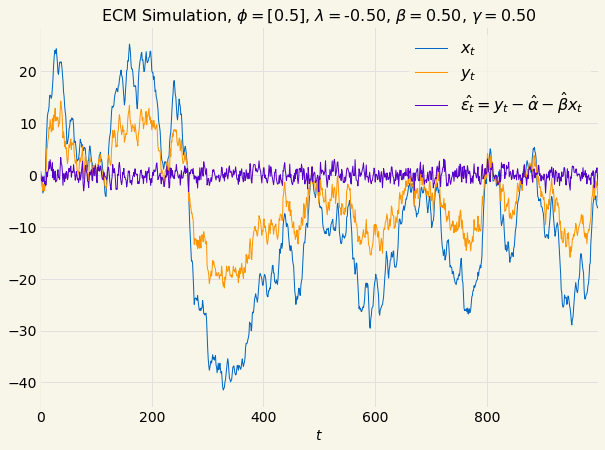
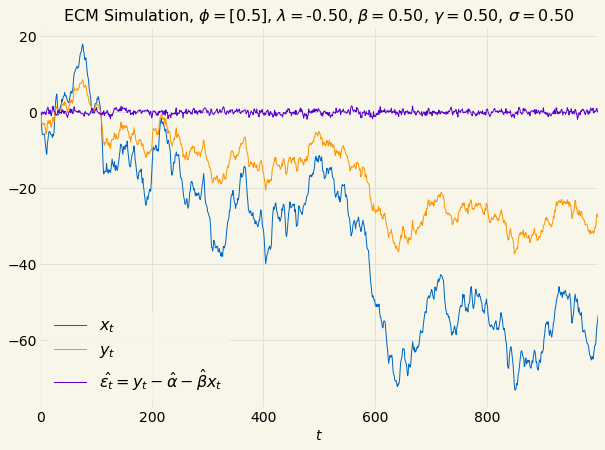
added statndard deviation to ecm noise term

diff --git a/hydrogen_notebooks/algorithmic_trading/mean_reversion/ecm_parameter_estimation.py b/hydrogen_notebooks/algorithmic_trading/mean_reversion/ecm_parameter_estimation.py
@@ -59,9 +59,9 @@ def corrletation_plot(xt, yt, params, err, β_r_squared, legend_anchor, title, p
 # %%
 
 arima_params = {"φ": numpy.array([0.5]), "δ": numpy.array([]), "d": 1}
-ecm_params = {"δ": 0.0, "γ": 0.5, "λ": -0.5, "α": 0.0, "β": 0.5}
+ecm_params = {"δ": 0.0, "γ": 0.5, "λ": -0.5, "α": 0.0, "β": 0.5, "σ": 1.0}
 n = 1000
-image_postfix = f"_φ_{format(arima_params['φ'][0], '1.1f')}_β_{format(ecm_params['β'], '1.1f')}_λ_{format(ecm_params['λ'], '1.1f')}_γ_{format(ecm_params['γ'], '1.1f')}"
+image_postfix = f"_φ_{format(arima_params['φ'][0], '1.1f')}_β_{format(ecm_params['β'], '1.1f')}_λ_{format(ecm_params['λ'], '1.1f')}_γ_{format(ecm_params['γ'], '1.1f')}_σ_{format(ecm_params['σ'], '1.1f')}"
 
 xt, yt = arima.ecm_sample_generate(arima_params, ecm_params, n)
 
@@ -71,7 +71,7 @@ params, rsquard, err = arima.ols_estimate(xt, yt)
 
 # %%
 
-title = f"ECM Simulation, " + r"$\phi=$" + f"{numpy.array2string(arima_params['φ'], precision=2, separator=',')}, " + r"$\lambda=$" + f"{format(ecm_params['λ'], '2.2f')}, " + r"$\beta=$" + f"{format(ecm_params['β'], '2.2f')}, " + r"$\gamma=$" + f"{format(ecm_params['γ'], '2.2f')}"
+title = f"ECM Simulation, " + r"$\phi=$" + f"{numpy.array2string(arima_params['φ'], precision=2, separator=',')}, " + r"$\lambda=$" + f"{format(ecm_params['λ'], '2.2f')}, " + r"$\beta=$" + f"{format(ecm_params['β'], '2.2f')}, " + r"$\gamma=$" + f"{format(ecm_params['γ'], '2.2f')}, " + r"$\sigma=$" + f"{format(ecm_params['σ'], '2.2f')}"
 plot_name = f"ecm_parameter_estimation_β{image_postfix}"
 corrletation_plot(xt, yt, params, err, rsquard, [0.85, 0.5], title, plot_name)
 
@@ -85,7 +85,7 @@ arima.adf_report(εt)
 
 # %%
 
-title = f"ECM Simulation, " + r"$\phi=$" + f"{numpy.array2string(arima_params['φ'], precision=2, separator=',')}, " + r"$\lambda=$" + f"{format(ecm_params['λ'], '2.2f')}, " + r"$\beta=$" + f"{format(ecm_params['β'], '2.2f')}, " + r"$\gamma=$" + f"{format(ecm_params['γ'], '2.2f')}"
+title = f"ECM Simulation, " + r"$\phi=$" + f"{numpy.array2string(arima_params['φ'], precision=2, separator=',')}, " + r"$\lambda=$" + f"{format(ecm_params['λ'], '2.2f')}, " + r"$\beta=$" + f"{format(ecm_params['β'], '2.2f')}, " + r"$\gamma=$" + f"{format(ecm_params['γ'], '2.2f')}, " + r"$\sigma=$" + f"{format(ecm_params['σ'], '2.2f')}"
 plot_name = f"ecm_parameter_estimation_simualtion{image_postfix}"
 labels = [r"$x_t$", r"$y_t$", r"$\hat{\varepsilon_t} = y_{t}-\hat{\alpha}-\hat{\beta}x_{t}$"]
 samples = numpy.array([xt, yt, εt])
@@ -98,10 +98,10 @@ arima.ecm_estimate_parameters(xt, yt, params[0], params[1])
 
 # %%
 
-arima_params = {"φ": numpy.array([0.9]), "δ": numpy.array([]), "d": 1}
-ecm_params = {"δ": 0.0, "γ": 0.5, "λ": -0.5, "α": 0.0, "β": 0.5}
+arima_params = {"φ": numpy.array([0.2]), "δ": numpy.array([]), "d": 1}
+ecm_params = {"δ": 0.0, "γ": 0.5, "λ": -0.5, "α": 0.0, "β": 0.5, "σ": 1.0}
 n = 1000
-image_postfix = f"_φ_{format(arima_params['φ'][0], '1.1f')}_β_{format(ecm_params['β'], '1.1f')}_λ_{format(ecm_params['λ'], '1.1f')}_γ_{format(ecm_params['γ'], '1.1f')}"
+image_postfix = f"_φ_{format(arima_params['φ'][0], '1.1f')}_β_{format(ecm_params['β'], '1.1f')}_λ_{format(ecm_params['λ'], '1.1f')}_γ_{format(ecm_params['γ'], '1.1f')}_σ_{format(ecm_params['σ'], '1.1f')}"
 
 xt, yt = arima.ecm_sample_generate(arima_params, ecm_params, n)
 
@@ -111,7 +111,7 @@ params, rsquard, err = arima.ols_estimate(xt, yt)
 
 # %%
 
-title = f"ECM Simulation, " + r"$\phi=$" + f"{numpy.array2string(arima_params['φ'], precision=2, separator=',')}, " + r"$\lambda=$" + f"{format(ecm_params['λ'], '2.2f')}, " + r"$\beta=$" + f"{format(ecm_params['β'], '2.2f')}, " + r"$\gamma=$" + f"{format(ecm_params['γ'], '2.2f')}"
+title = f"ECM Simulation, " + r"$\phi=$" + f"{numpy.array2string(arima_params['φ'], precision=2, separator=',')}, " + r"$\lambda=$" + f"{format(ecm_params['λ'], '2.2f')}, " + r"$\beta=$" + f"{format(ecm_params['β'], '2.2f')}, " + r"$\gamma=$" + f"{format(ecm_params['γ'], '2.2f')}, " + r"$\sigma=$" + f"{format(ecm_params['σ'], '2.2f')}"
 plot_name = f"ecm_parameter_estimation_β{image_postfix}"
 corrletation_plot(xt, yt, params, err, rsquard, [0.85, 0.5], title, plot_name)
 
@@ -125,7 +125,7 @@ arima.adf_report(εt)
 
 # %%
 
-title = f"ECM Simulation, " + r"$\phi=$" + f"{numpy.array2string(arima_params['φ'], precision=2, separator=',')}, " + r"$\lambda=$" + f"{format(ecm_params['λ'], '2.2f')}, " + r"$\beta=$" + f"{format(ecm_params['β'], '2.2f')}, " + r"$\gamma=$" + f"{format(ecm_params['γ'], '2.2f')}"
+title = f"ECM Simulation, " + r"$\phi=$" + f"{numpy.array2string(arima_params['φ'], precision=2, separator=',')}, " + r"$\lambda=$" + f"{format(ecm_params['λ'], '2.2f')}, " + r"$\beta=$" + f"{format(ecm_params['β'], '2.2f')}, " + r"$\gamma=$" + f"{format(ecm_params['γ'], '2.2f')}, " + r"$\sigma=$" + f"{format(ecm_params['σ'], '2.2f')}"
 plot_name = f"ecm_parameter_estimation_simualtion{image_postfix}"
 labels = [r"$x_t$", r"$y_t$", r"$\hat{\varepsilon_t} = y_{t}-\hat{\alpha}-\hat{\beta}x_{t}$"]
 samples = numpy.array([xt, yt, εt])
@@ -139,9 +139,9 @@ arima.ecm_estimate_parameters(xt, yt, params[0], params[1])
 # %%
 
 arima_params = {"φ": numpy.array([0.5]), "δ": numpy.array([]), "d": 1}
-ecm_params = {"δ": 0.0, "γ": 0.75, "λ": -0.25, "α": 0.0, "β": 0.25}
+ecm_params = {"δ": 0.0, "γ": 0.75, "λ": -0.25, "α": 0.0, "β": 0.25, "σ": 1.0}
 n = 1000
-image_postfix = f"_φ_{format(arima_params['φ'][0], '1.1f')}_β_{format(ecm_params['β'], '1.1f')}_λ_{format(ecm_params['λ'], '1.1f')}_γ_{format(ecm_params['γ'], '1.1f')}"
+image_postfix = f"_φ_{format(arima_params['φ'][0], '1.1f')}_β_{format(ecm_params['β'], '1.1f')}_λ_{format(ecm_params['λ'], '1.1f')}_γ_{format(ecm_params['γ'], '1.1f')}_σ_{format(ecm_params['σ'], '1.1f')}"
 
 xt, yt = arima.ecm_sample_generate(arima_params, ecm_params, n)
 
@@ -151,7 +151,7 @@ params, rsquard, err = arima.ols_estimate(xt, yt)
 
 # %%
 
-title = f"ECM Simulation, " + r"$\phi=$" + f"{numpy.array2string(arima_params['φ'], precision=2, separator=',')}, " + r"$\lambda=$" + f"{format(ecm_params['λ'], '2.2f')}, " + r"$\beta=$" + f"{format(ecm_params['β'], '2.2f')}, " + r"$\gamma=$" + f"{format(ecm_params['γ'], '2.2f')}"
+title = f"ECM Simulation, " + r"$\phi=$" + f"{numpy.array2string(arima_params['φ'], precision=2, separator=',')}, " + r"$\lambda=$" + f"{format(ecm_params['λ'], '2.2f')}, " + r"$\beta=$" + f"{format(ecm_params['β'], '2.2f')}, " + r"$\gamma=$" + f"{format(ecm_params['γ'], '2.2f')}, " + r"$\sigma=$" + f"{format(ecm_params['σ'], '2.2f')}"
 plot_name = f"ecm_parameter_estimation_β{image_postfix}"
 corrletation_plot(xt, yt, params, err, rsquard, [0.85, 0.5], title, plot_name)
 
@@ -165,7 +165,7 @@ arima.adf_report(εt)
 
 # %%
 
-title = f"ECM Simulation, " + r"$\phi=$" + f"{numpy.array2string(arima_params['φ'], precision=2, separator=',')}, " + r"$\lambda=$" + f"{format(ecm_params['λ'], '2.2f')}, " + r"$\beta=$" + f"{format(ecm_params['β'], '2.2f')}, " + r"$\gamma=$" + f"{format(ecm_params['γ'], '2.2f')}"
+title = f"ECM Simulation, " + r"$\phi=$" + f"{numpy.array2string(arima_params['φ'], precision=2, separator=',')}, " + r"$\lambda=$" + f"{format(ecm_params['λ'], '2.2f')}, " + r"$\beta=$" + f"{format(ecm_params['β'], '2.2f')}, " + r"$\gamma=$" + f"{format(ecm_params['γ'], '2.2f')}, " + r"$\sigma=$" + f"{format(ecm_params['σ'], '2.2f')}"
 plot_name = f"ecm_parameter_estimation_simualtion{image_postfix}"
 labels = [r"$x_t$", r"$y_t$", r"$\hat{\varepsilon_t} = y_{t}-\hat{\alpha}-\hat{\beta}x_{t}$"]
 samples = numpy.array([xt, yt, εt])

diff --git a/lib/arima.py b/lib/arima.py
@@ -43,13 +43,23 @@ def ecm_sample_generate(arima_params, ecm_params, n):
     φ = arima_params["φ"]
     d = arima_params["d"]
     xt = arima_generate_sample(φ, δ, d, n)
-    yt = numpy.zeros(n)
-    ξt = numpy.random.normal(0.0, 1.0, n)
-    δ = ecm_params["δ"]
+    if "δ" in ecm_params:
+        δ = ecm_params["δ"]
+    else:
+        δ = 0.0
+    if "α" in ecm_params:
+        α = ecm_params["α"]
+    else:
+        α = 0.0
+    if "σ" in ecm_params:
+        σ = ecm_params["σ"]
+    else:
+        σ = 1.0
     λ = ecm_params["λ"]
-    α = ecm_params["α"]
     β = ecm_params["β"]
     γ = ecm_params["γ"]
+    yt = numpy.zeros(n)
+    ξt = numpy.random.normal(0.0, σ, n)
     for i in range(1, n):
         Δxt = xt[i] - xt[i-1]
         Δyt = δ + γ*Δxt + λ*(yt[i-1] - α - β*xt[i-1]) + ξt[i]
